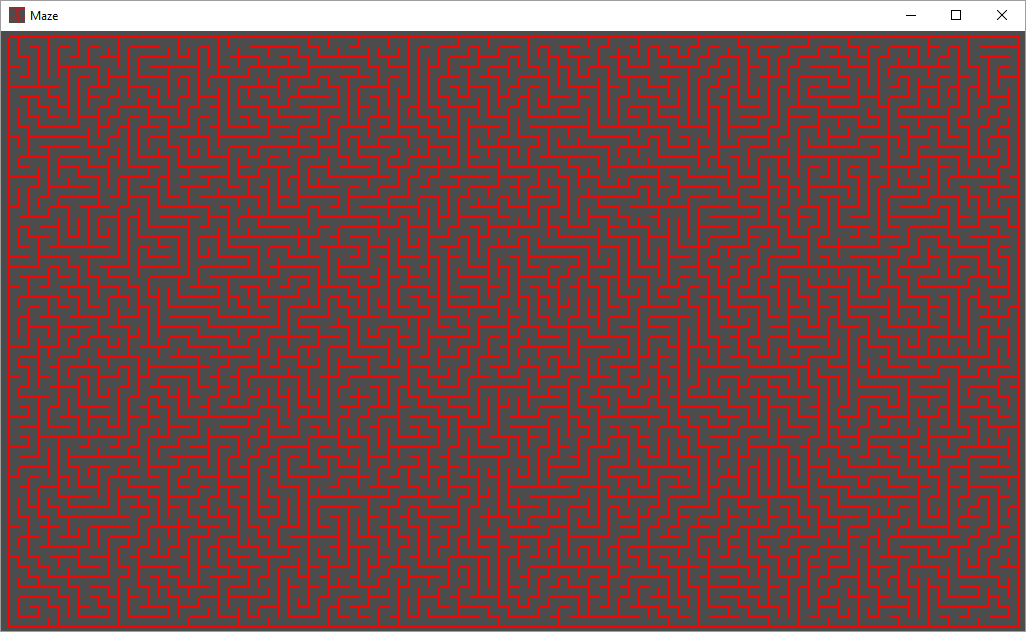
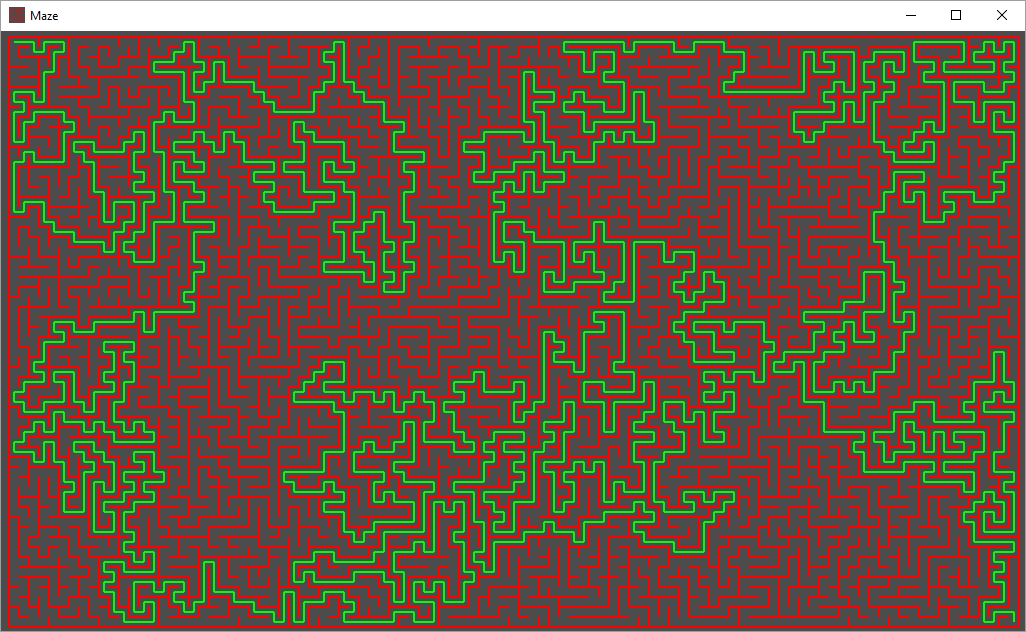
Solve function added

Changed region(s): [[0.0, 0.0601, 0.9981, 0.9921]]

diff --git a/README.md b/README.md
@@ -1,4 +1,4 @@
 # GodotMaze
 Godot maze generator using Optimapl Path algorythm
-
+I've add solve method
 ![alt tag](https://github.com/landroo/GodotMaze/blob/master/maze.png)
